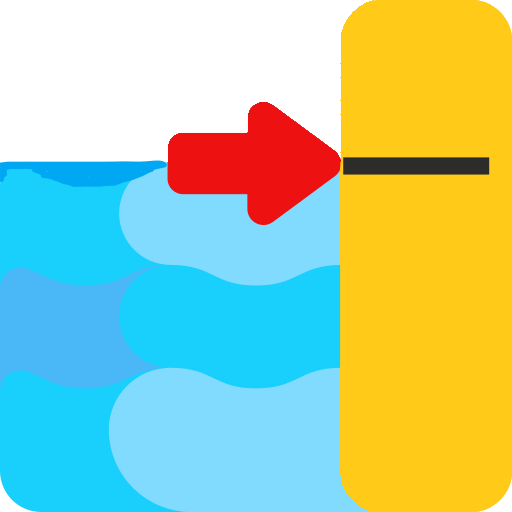
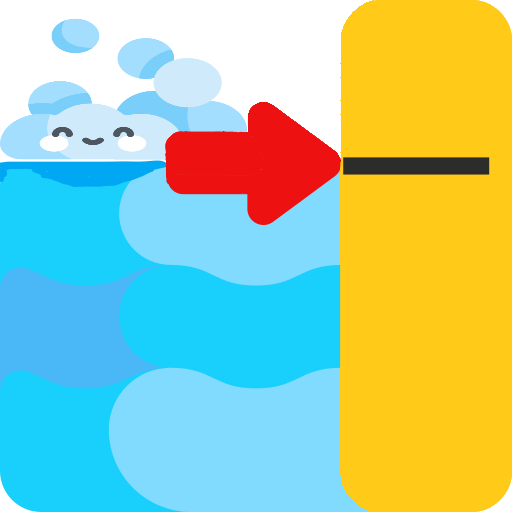
cambio icono enrasar

Changed region(s): [[0.0, 0.0625, 0.5, 0.3438], [0.0938, 0.0312, 0.2188, 0.125]]

diff --git a/src/componentes/Jarabes.js b/src/componentes/Jarabes.js
@@ -5,6 +5,7 @@ import jarabeInicial from '../imagenes/jarabe_inicial.png';
 import dosificar from '../imagenes/dosificar.png';
 import enrasar from '../imagenes/enrasar.png';
 import grifo from '../imagenes/grifo.png';
+import marca from '../imagenes/marca.png';
 import mesa from '../imagenes/tabla.png';
 import '../App.css';
 import '../estilos/instrucciones.css';
@@ -39,7 +40,7 @@ function Jarabes() {
                     <p><strong id="aling-izq">Paso 1:</strong> <img src={agitar} alt="agitar" className="instruction-icon" /><img src={jarabeInicial} alt="jarabe inicial" className="instruction-icon" /> Antes de abrir el frasco, <strong>Agite enérgicamente</strong> para que <strong id="azul">el polvo esté suelto y no quede compactado en el fondo</strong>. 
                     </p>
                     
-                    <p><strong id="aling-izq">Paso 2:</strong> <img src={grifo} alt="enrasar" className="instruction-icon" /> Abra el frasco y <strong>Agregue agua</strong> hasta que el <strong id="azul">nivel del agua esté en la marca indicada</strong> en el envase.
+                    <p><strong id="aling-izq">Paso 2:</strong> <img src={grifo} alt="grifo" className="instruction-icon" /> <img src={marca} alt="llenar hasta la marca" className="instruction-icon3" /> Abra el frasco y <strong>Agregue agua</strong> hasta que el <strong id="azul">nivel del agua esté en la marca indicada</strong> en el envase.
                     <br />
                     <br/>
                     🔔 <strong id="azul">Use agua potable a temperatura ambiente</strong>. En caso de no tener, use el agua que utiliza habitualmente para consumo, ya sea hervida y enfriada o embotellada. 🚫 <strong id="azul">NO usar agua caliente o tibia.</strong> 
